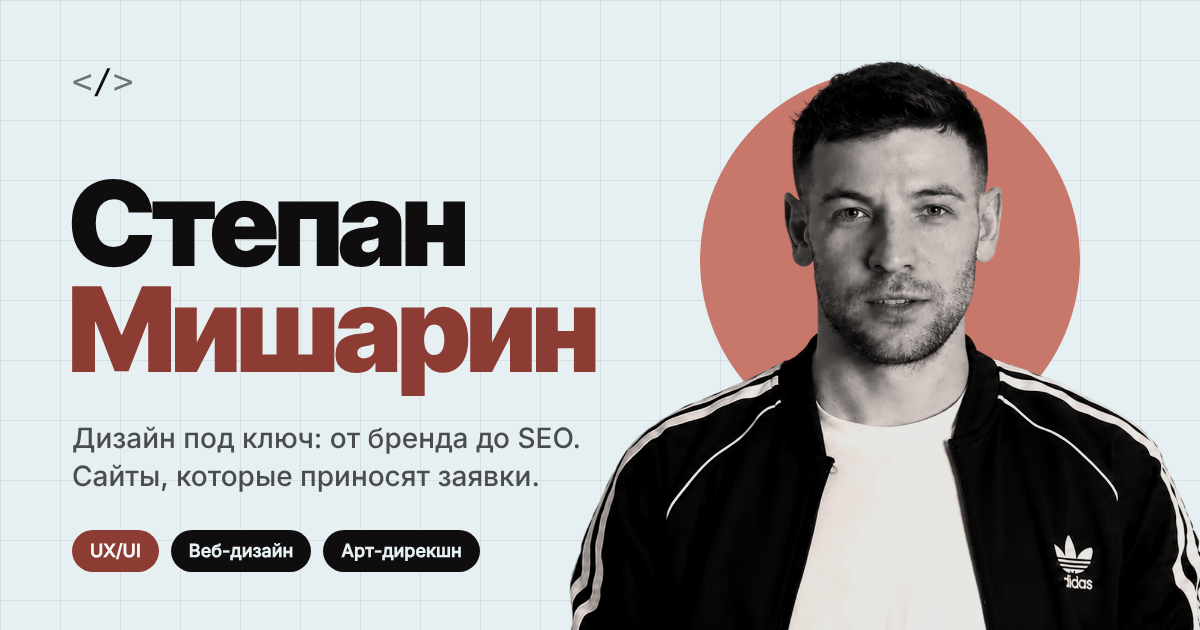
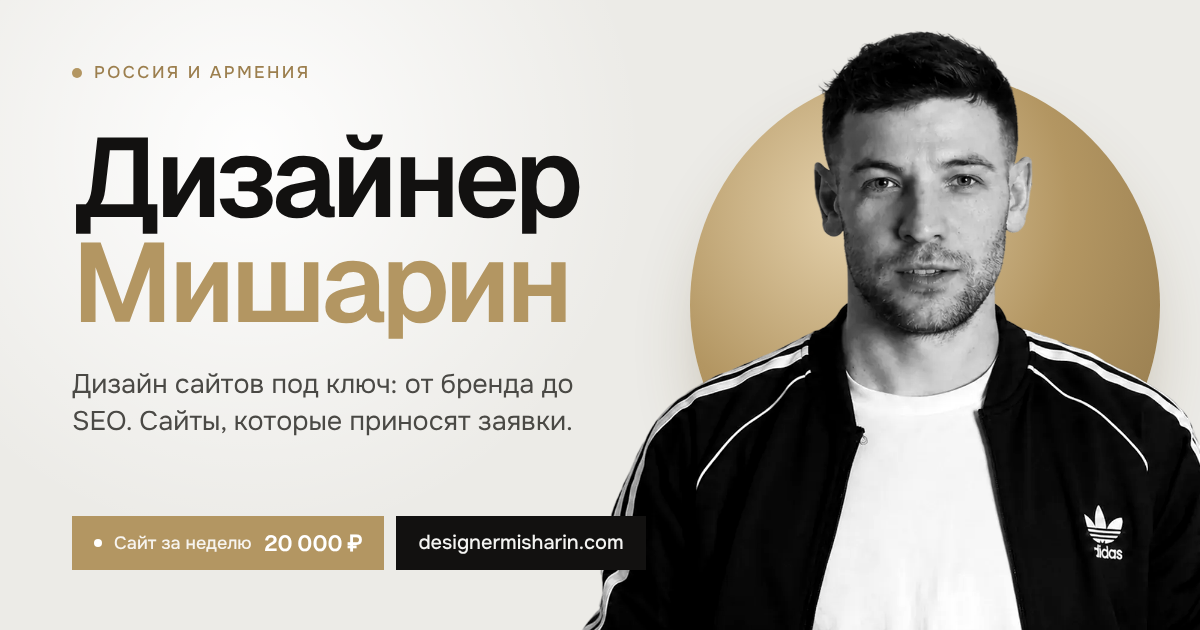
New social preview image in the site style
Claude-Session: https://claude.ai/code/session_01PBjrbyQurQJ74u89Z7c3nj

diff --git a/index.html b/index.html
@@ -20,15 +20,15 @@
 <meta property="og:site_name" content="Степан Мишарин">
 <meta property="og:title" content="Степан Мишарин: дизайн сайтов под ключ">
 <meta property="og:description" content="UX/UI, веб-дизайн, арт-дирекшн и дизайн-инженерия. Сайты, которые выглядят дорого и приносят заявки.">
-<meta property="og:image" content="/og.png">
+<meta property="og:image" content="https://designermisharin.com/og.png?v=2">
 <meta property="og:image:width" content="1200">
 <meta property="og:image:height" content="630">
 <meta property="og:image:alt" content="Степан Мишарин, дизайнер">
 <meta name="twitter:card" content="summary_large_image">
 <meta name="twitter:title" content="Степан Мишарин: дизайн сайтов под ключ">
 <meta name="twitter:description" content="UX/UI, веб-дизайн, арт-дирекшн и дизайн-инженерия. Сайты, которые выглядят дорого и приносят заявки.">
-<meta name="twitter:image" content="/og.png">
-<script type="application/ld+json">{"@context": "https://schema.org", "@type": "Person", "name": "Степан Мишарин", "alternateName": "Stepan Misharin", "jobTitle": "Дизайнер: UX/UI, веб-дизайн, арт-дирекшн", "description": "Степан Мишарин: дизайн под ключ от бренда до SEO. UX/UI, веб-дизайн, арт-дирекшн и дизайн-инженерия. Сайты, которые выглядят дорого и приносят заявки.", "sameAs": ["https://t.me/Maxim_DMar"], "image": "/og.png"}</script>
+<meta name="twitter:image" content="https://designermisharin.com/og.png?v=2">
+<script type="application/ld+json">{"@context": "https://schema.org", "@type": "Person", "name": "Степан Мишарин", "alternateName": "Stepan Misharin", "jobTitle": "Дизайнер: UX/UI, веб-дизайн, арт-дирекшн", "description": "Степан Мишарин: дизайн под ключ от бренда до SEO. UX/UI, веб-дизайн, арт-дирекшн и дизайн-инженерия. Сайты, которые выглядят дорого и приносят заявки.", "sameAs": ["https://t.me/Maxim_DMar"], "image": "https://designermisharin.com/og.png?v=2"}</script>
 <link rel="preload" href="img/hero.webp" as="image" fetchpriority="high">
 <link rel="preload" href="/fonts/geist-cyrillic-52ed31.woff2" as="font" type="font/woff2" crossorigin>
 <link rel="preload" href="/fonts/onest-cyrillic-352eaa.woff2" as="font" type="font/woff2" crossorigin>
